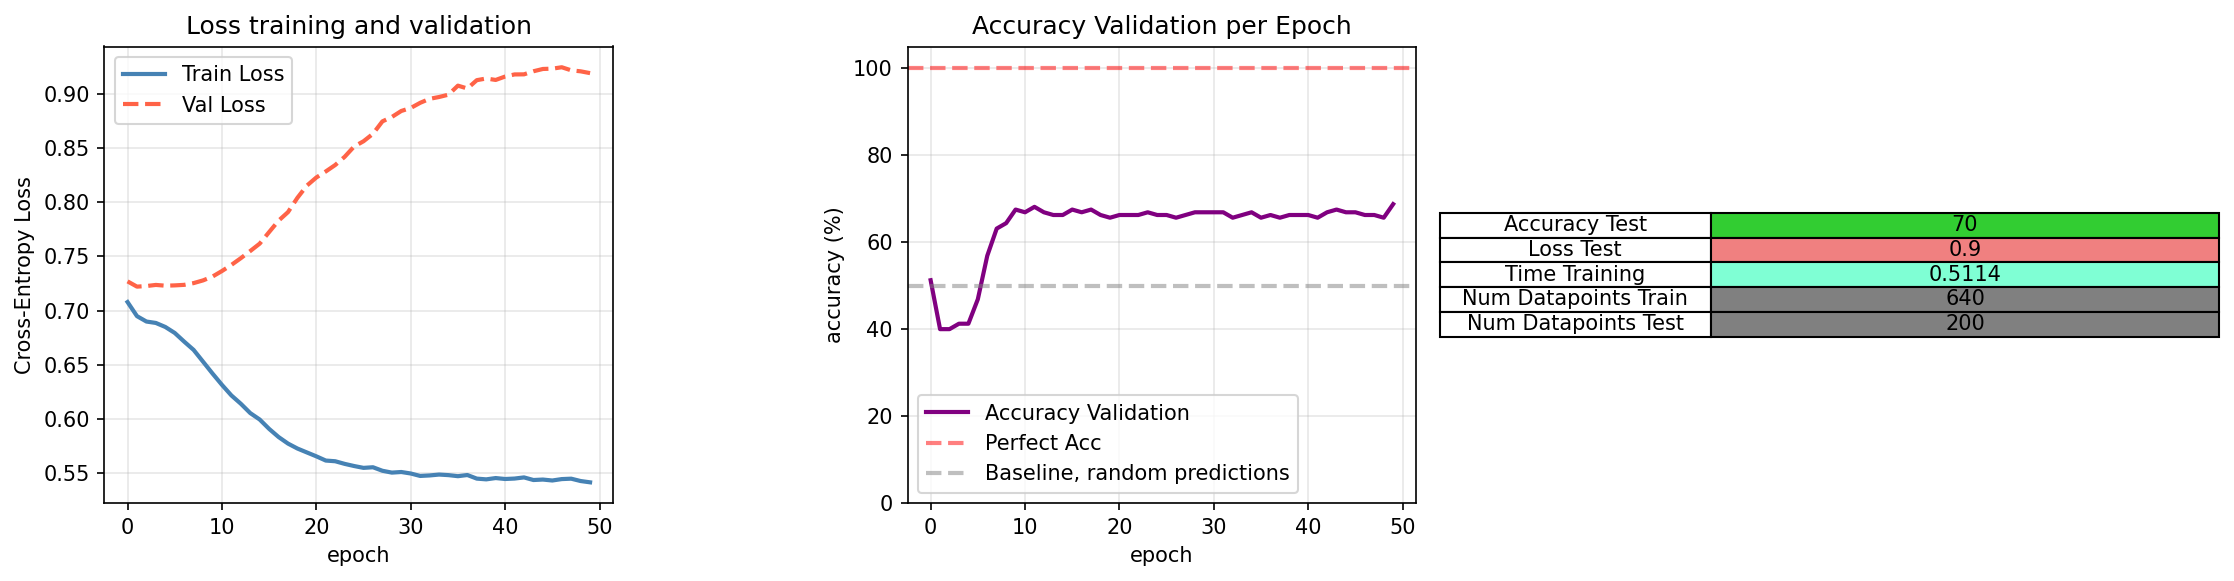
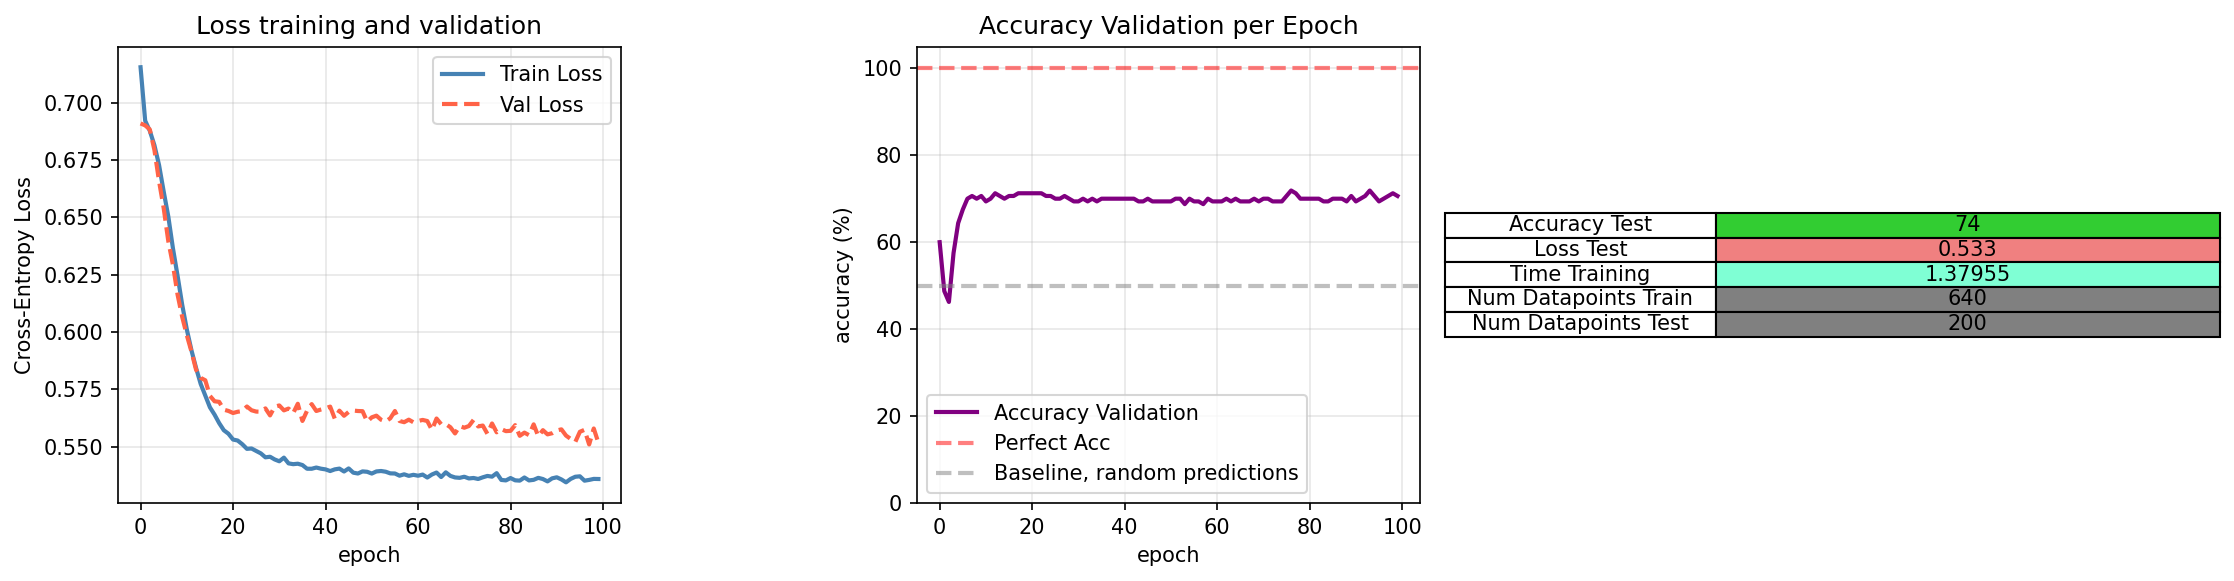
Testing with toy-examples: OK

diff --git a/examples/training_model.py b/examples/training_model.py
@@ -11,7 +11,7 @@ Why Loss Now increases with random batches?
 # Load data
 dataset = {'square': "examples\datasets\square_regions.csv",
            'circle': "examples\datasets\circle_regions.csv"}
-data_name = 'circle'
+data_name = 'square'
 toy_data = pd.read_csv(dataset[data_name])
 
 #df_train, df_test = split(toy_data, 0.8)
@@ -25,7 +25,7 @@ model = NeuralNetwork([LinearLayer(2,3,activation="Softmax"),
 
 
 n_classes = len(np.unique(Y))
-epochs = 50
+epochs = 100
 print(f"\nDataset: \tTrain: {len(data_train)} | Val: {len(data_val)} | Test: {len(data_test)} | Clases: {list(range(n_classes))}\n")
 
 results = model.train(data_train,epochs,0.01,batch_size=20,loss=CrossEntropy(),adam=True, data_val = data_val)
